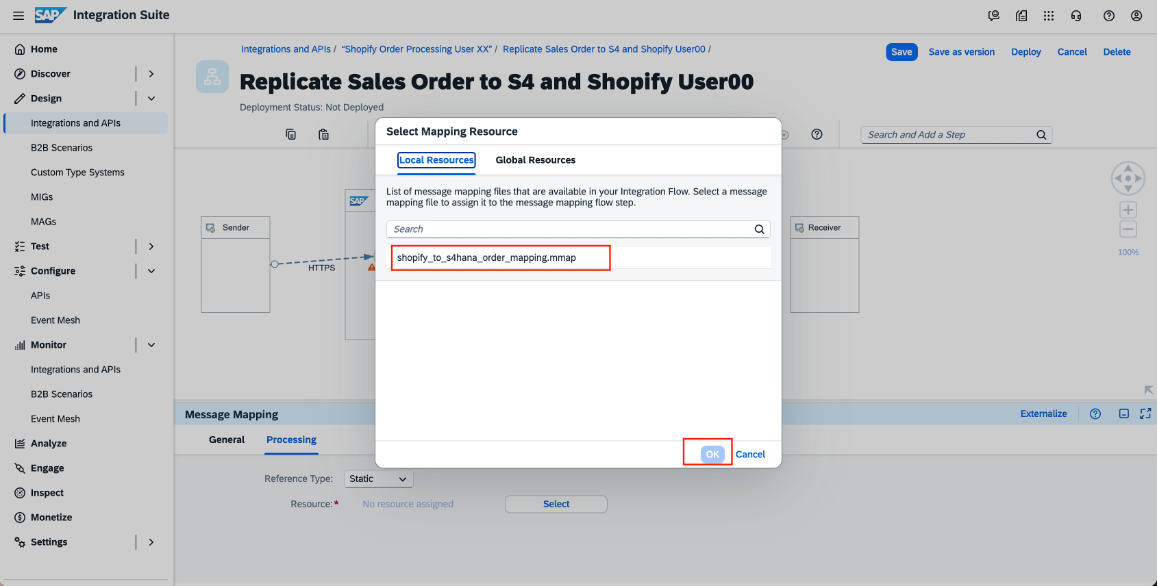
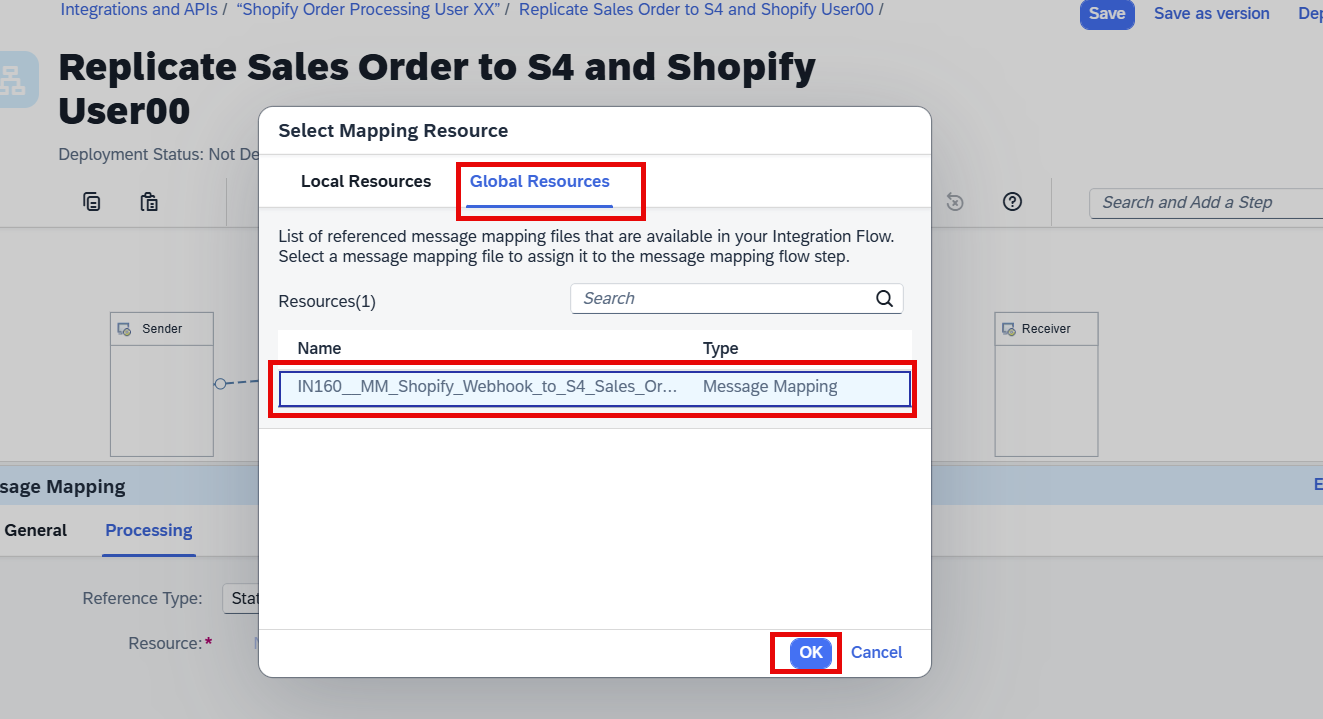
update exercise

diff --git a/exercises/ex3/README.md b/exercises/ex3/README.md
@@ -3,7 +3,7 @@ In this exercise you'll replicate the sales order to Shopify and the SAP S/4HANA
 
 ## Create package
 
-1. Login to the SAP Integration Suite system and **create a package**. On the home page, **click** on the three lines on the top left hand side and go to **Integrations and APIs**. Click on **Create package**.
+1. Open the [SAP Integration Suite tenant](https://workshop-eu-02a.integrationsuite-cpi033.cfapps.eu10-005.hana.ondemand.com/shell/home). On the home page, **click** on the three lines on the top left hand side and go to **Integrations and APIs**. Click on **Create package**.
 
 <br>![](/exercises/ex3/images/3_36.png)
 
@@ -48,43 +48,49 @@ Click **Save**.
 
 <br>![](/exercises/ex3/images/3_4.png)
 
-5. Click outside of the integration process box. Navigate to the **References** tab and select **Add>Mapping>Message Mapping**.
+5. Click outside of the integration process box. Navigate to the **References** tab and select **Global**, and Press **Add References>Message Mapping**.
 
-<br>![](/exercises/ex3/images/3_5.png)
+<br>![](/exercises/ex3/images/addGlobalMM.png)
 
-6. Upload the message mapping file saved in your system by clicking on **Browse**.
+6. Select the Package **IN160 - Solution Package**.
 
-<br>![](/exercises/ex3/images/3_5.png)
+<br>![](/exercises/ex3/images/MM_SelectPackage.png)
 
-The mapping files will get uploaded as follows:
+7. Select the Message Mapping **IN160 - Solution Package** and Press **OK**.
+
+<br>![](/exercises/ex3/images/MM_SelectMapping.png)
+
+The message mapping is now added as reference:
 
 <br>![](/exercises/ex3/images/3_7.png)
 
-7. Click on the **Mapping** icon in the tool bar and then choose **Message Mapping**.
+8. Create space for the flow steps and expand the integration process. Position the end step to the right.
 
-<br>![](/exercises/ex3/images/3_8.png)
+<br>![](/exercises/ex3/images/increaseWidth.png)
 
-8. Go to the **Processing** tab and click the **Select** button.
+Select the **"Start"** step and press the “**+**” button to create a new flow step.
+
+<br>![](/exercises/ex3/images/3_addStartStep.png)
+
+Choose **Message Mapping** step.
+
+<br>![](/exercises/ex3/images/addMessageMapping.png)
+
+9. Go to the **Processing** tab and click the **Select** button.
 
 <br>![](/exercises/ex3/images/3_9.png)
 
-9. in **Local Resources** select the message mapping file **shopify_to_s4hana_order_mapping_mmap** and then click **Ok**.
+10. Switch to **Global Resources**. Select the Message Mapping you just added and press **OK**.
 
 <br>![](/exercises/ex3/images/3_10.png)
 
-10. You'll see Mapping defined for you as follows:
+11. Now click on the Message Mapping step and press the **+** button to add a new flowstep.
 
-<br>![](/exercises/ex3/images/3_11.png)
+<br>![](/exercises/ex3/images/addStepMM.png)
 
-Click **Ok**.
+Select **Request Reply**.
 
-11. Now, navigate to the toolbar and select the **External call** button (double arrows),and **Request Reply**.
-
-<br>![](/exercises/ex3/images/3_12.png)
-
-And place the **Request Reply** box in the integration flow:
-
-<br>![](/exercises/ex3/images/3_13.png)
+<br>![](/exercises/ex3/images/addRequestReply.png)
 
 12. Go to the **Participants** toolbar icon and select **Receiver**.
 
@@ -113,15 +119,15 @@ Enter Resource Path: **A_SalesOrder**.
 
 <br>![](/exercises/ex3/images/3_20.png)
 
-16. Click the **Transformation** icon form  the tool bar, then **Content Modifier**.
+16. Click on the Request Reply step and press the **+** button to add a new flowstep.
 
-<br>![](/exercises/ex3/images/3_21.png)
+<br>![](/exercises/ex3/images/RequestReplyadd.png)
 
-And place the content modifier in the integration process, between the Tequest Reply and End.
+Select **Content Modifier**.
 
-<br>![](/exercises/ex3/images/3_22.png)
+<br>![](/exercises/ex3/images/createContentModifier.png)
 
-17. Click on the **content modifier**. Then navigate to **Exchange Property>Add** to add an exchange property.
+17. Click on the **Content Modifier**. Then navigate to **Exchange Property>Add** to add an exchange property.
 
 <br>![](/exercises/ex3/images/3_23.png)
 
@@ -156,13 +162,16 @@ And past the following to **Body**:
 
 <br>![](/exercises/ex3/images/3_27.png)
 
-20. Select the **call** icon form the toolbar and choose **external call>request reply**.
 
-<br>![](/exercises/ex3/images/3_28.png)
 
-And place it in integration process.
+20. Click on the Content Modifier step and press the **+** button to add a new flowstep.
 
-<br>![](/exercises/ex3/images/3_29.png)
+<br>![](/exercises/ex3/images/addStepContentModifier.png)
+
+Select **Request Reply**.
+
+<br>![](/exercises/ex3/images/createRequestReply2.png)
+
 
 21. Click on the **Request reply** and then the arrow and connect it to the **receiver**. Choose **Shopify adapter** from adapter pop up.
 
@@ -174,7 +183,7 @@ Choose **GraphQL**.
 
 Go to the **Connection** tab and enter the following details:
 - **Shopify base URL**: https://sap-teched-2025.myshopify.com
-- **Shopify secure parameter**: IN160_Shopify(Created as a pre-requisite)
+- **Shopify secure parameter**: IN160_Shopify
 
 <br>![](/exercises/ex3/images/3_32.png)
 

diff --git a/exercises/ex4/README.md b/exercises/ex4/README.md
@@ -26,7 +26,7 @@ And then, click **create** to generate a new event specification.
 
 Next, you'll upload the **JSON file**, which includes the Event specification from the previous exercise. You can also download the file from here (Right-click on the link and Save link as..):
 
-[Download Final_Event.json](https://raw.githubusercontent.com/SAP-samples/teched2025-IN160/refs/heads/main/resources/Final_Event.json?token=GHSAT0AAAAAADMENUR42TGUFOJXLG7P2FHM2HHSD3Q)
+[Download Final_Event.json](../../resources/Final_Event.json)
 
 If you are unable to download the file you can also navigate to the **resources** folder and search fo the Final_Event.json file - there you can download it as well.
 
@@ -100,7 +100,7 @@ Click on **Open Condition Editor** to configure the rules of this condition.
 <br>![](/exercises/ex4/Images/X3.png)
 
  
-Here you need to specify when the **If-Path** should occur and not the default path. In this case we want to proceed every time your last name is passed on from the Event-Trigger to make sure that we do not continue if any other last name is in the payload of an event. With that we make sure that we only proceed when the order was created via your user. In order to find the last name variable you need to click on Process Inputs, select Data, then Customer and then select **last_name**. If Process Inputs do not show up then save your project and refresh the page, that should resolve your problem. This step will also avoid that your process is going to proceed if it is triggered by other users from this Hands-On exercise. On the right side please add the **last_name** of the your user in Shopify in this case it should be **userXX**. Then click on **Apply.**
+Here you need to specify when the **If-Path** should occur and not the default path. In this case we want to proceed every time your last name is passed on from the Event-Trigger to make sure that we do not continue if any other last name is in the payload of an event. With that we make sure that we only proceed when the order was created via your user. In order to find the last name variable you need to click on **Process Inputs**, select **data**, then **shipping_address** and then select **last_name**. If Process Inputs do not show up then save your project and refresh the page, that should resolve your problem. This step will also avoid that your process is going to proceed if it is triggered by other users from this Hands-On exercise. On the right side please add the **last_name** of the your user in Shopify in this case it should be **userXX**. Then click on **Apply.**
 
 <br>![](/exercises/ex4/Images/X111.png)
 

diff --git a/exercises/ex1/README.md b/exercises/ex1/README.md
@@ -16,7 +16,7 @@ A message queue can subscribe to multiple topics, determining which events are d
 
 >The message client is already setup in this tenant. To understand how this step is done, review the [help documentation](https://help.sap.com/docs/integration-suite/sap-integration-suite/>configure-message-client?locale=en-US).
 
-1.	In SAP Integration Suite, navigate to **Configure>Event Mesh**.
+1.	Open the[SAP Integration Suite tenant](https://workshop-eu-02a.integrationsuite-cpi033.cfapps.eu10-005.hana.ondemand.com/shell/home) and navigate to **Configure>Event Mesh**.
 
 <br>![](./images/1_1.png)
 
@@ -81,7 +81,7 @@ And press **"Pay Now"** to submit the order.
 
 <br>![](./images/shopify-complete.png)
 
-5. Let's have a look into the SAP Integration Suite tenant. Navigate to **Monitor** and **Integrations and APIs**. Press the tile **All Artifacts** under **Monitor Message Processing**.
+5. Let's have a look into the [SAP Integration Suite tenant](https://workshop-eu-02a.integrationsuite-cpi033.cfapps.eu10-005.hana.ondemand.com/shell/home). Navigate to **Monitor** and **Integrations and APIs**. Press the tile **All Artifacts** under **Monitor Message Processing**.
 
 <br>![](./images/monitor-overview.png)
 
